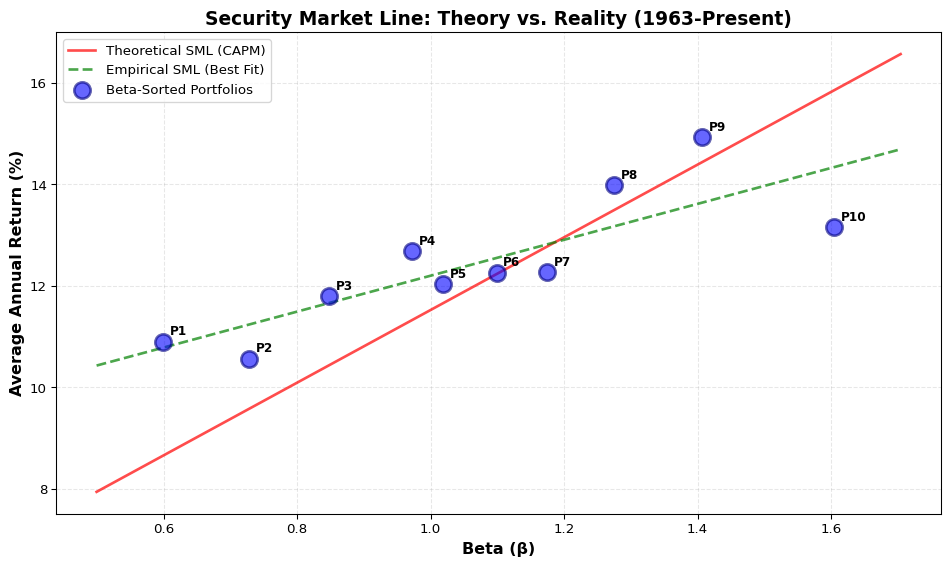
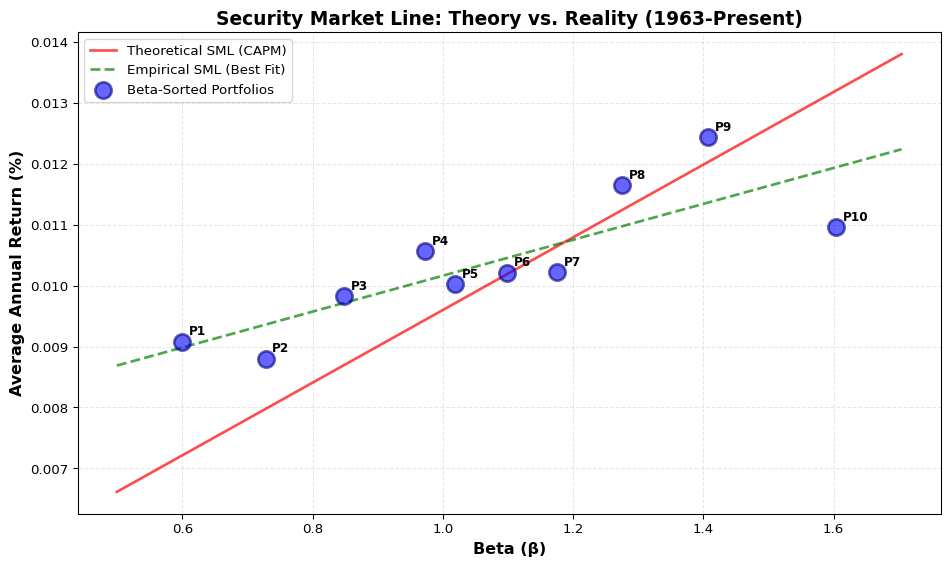
updated slides with corrected return calculations

diff --git a/lecture_slides/_output/lecture01/cross-section.html b/lecture_slides/_output/lecture01/cross-section.html
@@ -477,7 +477,7 @@ E[r_i] = r_f + \beta_i E[r_m - r_f],
 </section>
 <section id="capm-test-french-beta-portfolios" class="slide level2">
 <h2>CAPM Test: French Beta Portfolios</h2>
-<div id="f41a28d1" class="cell" data-execution_count="1">
+<div id="f4414bc9" class="cell" data-execution_count="1">
 <div class="sourceCode cell-code" id="cb1"><pre class="sourceCode numberSource python number-lines code-with-copy"><code class="sourceCode python"><span id="cb1-1"><a href=""></a><span class="im">import</span> pandas <span class="im">as</span> pd</span>
 <span id="cb1-2"><a href=""></a><span class="im">import</span> numpy <span class="im">as</span> np</span>
 <span id="cb1-3"><a href=""></a><span class="im">import</span> matplotlib.pyplot <span class="im">as</span> plt</span>
@@ -487,76 +487,78 @@ E[r_i] = r_f + \beta_i E[r_m - r_f],
 <span id="cb1-7"><a href=""></a>ff_factors <span class="op">=</span> pd.read_excel(<span class="st">"data_sample/ff_portfolios.xlsx"</span>)</span>
 <span id="cb1-8"><a href=""></a>ff_factors[<span class="st">"date"</span>] <span class="op">=</span> pd.to_datetime(ff_factors[<span class="st">"date"</span>], <span class="bu">format</span><span class="op">=</span><span class="st">"%Y%m"</span>)</span>
 <span id="cb1-9"><a href=""></a>ff_factors <span class="op">=</span> ff_factors.set_index(<span class="st">"date"</span>)</span>
-<span id="cb1-10"><a href=""></a></span>
-<span id="cb1-11"><a href=""></a><span class="co"># Load 10 beta-sorted portfolios</span></span>
-<span id="cb1-12"><a href=""></a>beta_portfolios <span class="op">=</span> pd.read_excel(<span class="st">"data_sample/ff_beta_sorted_portfolios.xlsx"</span>)</span>
-<span id="cb1-13"><a href=""></a>beta_portfolios[<span class="st">"date"</span>] <span class="op">=</span> pd.to_datetime(beta_portfolios[<span class="st">"date"</span>], <span class="bu">format</span><span class="op">=</span><span class="st">"%Y%m"</span>)</span>
-<span id="cb1-14"><a href=""></a>beta_portfolios <span class="op">=</span> beta_portfolios.set_index(<span class="st">"date"</span>)</span>
-<span id="cb1-15"><a href=""></a></span>
-<span id="cb1-16"><a href=""></a><span class="co"># Align dates between the two datasets</span></span>
-<span id="cb1-17"><a href=""></a>common_dates <span class="op">=</span> beta_portfolios.index.intersection(ff_factors.index)</span>
-<span id="cb1-18"><a href=""></a>beta_portfolios <span class="op">=</span> beta_portfolios.loc[common_dates]</span>
-<span id="cb1-19"><a href=""></a>ff_factors <span class="op">=</span> ff_factors.loc[common_dates]</span>
-<span id="cb1-20"><a href=""></a></span>
-<span id="cb1-21"><a href=""></a><span class="co"># Get portfolio column names (excluding date if present)</span></span>
-<span id="cb1-22"><a href=""></a>portfolio_cols <span class="op">=</span> [col <span class="cf">for</span> col <span class="kw">in</span> beta_portfolios.columns <span class="cf">if</span> col <span class="kw">not</span> <span class="kw">in</span> [<span class="st">"date"</span>]]</span>
-<span id="cb1-23"><a href=""></a></span>
-<span id="cb1-24"><a href=""></a><span class="co"># Calculate betas for each portfolio using OLS regression</span></span>
-<span id="cb1-25"><a href=""></a>betas <span class="op">=</span> []</span>
-<span id="cb1-26"><a href=""></a><span class="cf">for</span> col <span class="kw">in</span> portfolio_cols:</span>
-<span id="cb1-27"><a href=""></a>    <span class="co"># Portfolio excess returns</span></span>
-<span id="cb1-28"><a href=""></a>    portfolio_excess <span class="op">=</span> beta_portfolios[col] <span class="op">-</span> ff_factors[<span class="st">"RF"</span>]</span>
-<span id="cb1-29"><a href=""></a>    market_excess <span class="op">=</span> ff_factors[<span class="st">"MKT_RF"</span>]</span>
-<span id="cb1-30"><a href=""></a></span>
-<span id="cb1-31"><a href=""></a>    <span class="co"># Run OLS regression: portfolio_excess = alpha + beta * market_excess</span></span>
-<span id="cb1-32"><a href=""></a>    X <span class="op">=</span> sm.add_constant(market_excess)</span>
-<span id="cb1-33"><a href=""></a>    model <span class="op">=</span> sm.OLS(portfolio_excess, X)</span>
-<span id="cb1-34"><a href=""></a>    results <span class="op">=</span> model.fit()</span>
-<span id="cb1-35"><a href=""></a>    beta <span class="op">=</span> results.params[<span class="dv">1</span>]  <span class="co"># Beta is the slope coefficient</span></span>
-<span id="cb1-36"><a href=""></a>    betas.append(beta)</span>
-<span id="cb1-37"><a href=""></a></span>
-<span id="cb1-38"><a href=""></a><span class="co"># Calculate average returns for each portfolio (annualized)</span></span>
-<span id="cb1-39"><a href=""></a>avg_returns <span class="op">=</span> beta_portfolios[portfolio_cols].mean() <span class="op">*</span> <span class="dv">12</span></span>
-<span id="cb1-40"><a href=""></a></span>
-<span id="cb1-41"><a href=""></a><span class="co"># Get risk-free rate and market return (annualized)</span></span>
-<span id="cb1-42"><a href=""></a>rf_rate <span class="op">=</span> ff_factors[<span class="st">"RF"</span>].mean() <span class="op">*</span> <span class="dv">12</span></span>
-<span id="cb1-43"><a href=""></a>market_return <span class="op">=</span> (ff_factors[<span class="st">"MKT_RF"</span>].mean() <span class="op">+</span> ff_factors[<span class="st">"RF"</span>].mean()) <span class="op">*</span> <span class="dv">12</span></span>
-<span id="cb1-44"><a href=""></a></span>
-<span id="cb1-45"><a href=""></a><span class="co"># Create results DataFrame</span></span>
-<span id="cb1-46"><a href=""></a>results_df <span class="op">=</span> pd.DataFrame(</span>
-<span id="cb1-47"><a href=""></a>    {</span>
-<span id="cb1-48"><a href=""></a>        <span class="st">"Portfolio"</span>: [<span class="ss">f"Beta </span><span class="sc">{</span>i <span class="op">+</span> <span class="dv">1</span><span class="sc">}</span><span class="ss">"</span> <span class="cf">for</span> i <span class="kw">in</span> <span class="bu">range</span>(<span class="bu">len</span>(portfolio_cols))],</span>
-<span id="cb1-49"><a href=""></a>        <span class="st">"Beta"</span>: betas,</span>
-<span id="cb1-50"><a href=""></a>        <span class="st">"Avg Return (%)"</span>: avg_returns.values,</span>
-<span id="cb1-51"><a href=""></a>    }</span>
-<span id="cb1-52"><a href=""></a>)</span>
-<span id="cb1-53"><a href=""></a></span>
-<span id="cb1-54"><a href=""></a><span class="bu">print</span>(<span class="st">"Beta-Sorted Portfolios (Kenneth French Data):"</span>)</span>
-<span id="cb1-55"><a href=""></a><span class="bu">print</span>(results_df.<span class="bu">round</span>(<span class="dv">3</span>))</span>
-<span id="cb1-56"><a href=""></a><span class="bu">print</span>(<span class="ss">f"</span><span class="ch">\n</span><span class="ss">Risk-free rate: </span><span class="sc">{</span>rf_rate<span class="sc">:.2f}</span><span class="ss">%"</span>)</span>
-<span id="cb1-57"><a href=""></a><span class="bu">print</span>(<span class="ss">f"Market return: </span><span class="sc">{</span>market_return<span class="sc">:.2f}</span><span class="ss">%"</span>)</span>
-<span id="cb1-58"><a href=""></a><span class="bu">print</span>(<span class="ss">f"Market risk premium: </span><span class="sc">{</span>(market_return <span class="op">-</span> rf_rate)<span class="sc">:.2f}</span><span class="ss">%"</span>)</span></code><button title="Copy to Clipboard" class="code-copy-button"><i class="bi"></i></button></pre></div>
+<span id="cb1-10"><a href=""></a>ff_factors <span class="op">=</span> ff_factors<span class="op">/</span><span class="dv">100</span></span>
+<span id="cb1-11"><a href=""></a></span>
+<span id="cb1-12"><a href=""></a><span class="co"># Load 10 beta-sorted portfolios</span></span>
+<span id="cb1-13"><a href=""></a>beta_portfolios <span class="op">=</span> pd.read_excel(<span class="st">"data_sample/ff_beta_sorted_portfolios.xlsx"</span>)</span>
+<span id="cb1-14"><a href=""></a>beta_portfolios[<span class="st">"date"</span>] <span class="op">=</span> pd.to_datetime(beta_portfolios[<span class="st">"date"</span>], <span class="bu">format</span><span class="op">=</span><span class="st">"%Y%m"</span>)</span>
+<span id="cb1-15"><a href=""></a>beta_portfolios <span class="op">=</span> beta_portfolios.set_index(<span class="st">"date"</span>)</span>
+<span id="cb1-16"><a href=""></a>beta_portfolios <span class="op">=</span> beta_portfolios<span class="op">/</span><span class="dv">100</span>  <span class="co"># Convert to decimal returns</span></span>
+<span id="cb1-17"><a href=""></a></span>
+<span id="cb1-18"><a href=""></a><span class="co"># Align dates between the two datasets</span></span>
+<span id="cb1-19"><a href=""></a>common_dates <span class="op">=</span> beta_portfolios.index.intersection(ff_factors.index)</span>
+<span id="cb1-20"><a href=""></a>beta_portfolios <span class="op">=</span> beta_portfolios.loc[common_dates]</span>
+<span id="cb1-21"><a href=""></a>ff_factors <span class="op">=</span> ff_factors.loc[common_dates]</span>
+<span id="cb1-22"><a href=""></a></span>
+<span id="cb1-23"><a href=""></a><span class="co"># Get portfolio column names (excluding date if present)</span></span>
+<span id="cb1-24"><a href=""></a>portfolio_cols <span class="op">=</span> [col <span class="cf">for</span> col <span class="kw">in</span> beta_portfolios.columns <span class="cf">if</span> col <span class="kw">not</span> <span class="kw">in</span> [<span class="st">"date"</span>]]</span>
+<span id="cb1-25"><a href=""></a></span>
+<span id="cb1-26"><a href=""></a><span class="co"># Calculate betas for each portfolio using OLS regression</span></span>
+<span id="cb1-27"><a href=""></a>betas <span class="op">=</span> []</span>
+<span id="cb1-28"><a href=""></a><span class="cf">for</span> col <span class="kw">in</span> portfolio_cols:</span>
+<span id="cb1-29"><a href=""></a>    <span class="co"># Portfolio excess returns</span></span>
+<span id="cb1-30"><a href=""></a>    portfolio_excess <span class="op">=</span> beta_portfolios[col] <span class="op">-</span> ff_factors[<span class="st">"RF"</span>]</span>
+<span id="cb1-31"><a href=""></a>    market_excess <span class="op">=</span> ff_factors[<span class="st">"MKT_RF"</span>]</span>
+<span id="cb1-32"><a href=""></a></span>
+<span id="cb1-33"><a href=""></a>    <span class="co"># Run OLS regression: portfolio_excess = alpha + beta * market_excess</span></span>
+<span id="cb1-34"><a href=""></a>    X <span class="op">=</span> sm.add_constant(market_excess)</span>
+<span id="cb1-35"><a href=""></a>    model <span class="op">=</span> sm.OLS(portfolio_excess, X)</span>
+<span id="cb1-36"><a href=""></a>    results <span class="op">=</span> model.fit()</span>
+<span id="cb1-37"><a href=""></a>    beta <span class="op">=</span> results.params[<span class="dv">1</span>]  <span class="co"># Beta is the slope coefficient</span></span>
+<span id="cb1-38"><a href=""></a>    betas.append(beta)</span>
+<span id="cb1-39"><a href=""></a></span>
+<span id="cb1-40"><a href=""></a><span class="co"># Calculate average returns for each portfolio (annualized)</span></span>
+<span id="cb1-41"><a href=""></a>avg_returns <span class="op">=</span> beta_portfolios[portfolio_cols].mean()</span>
+<span id="cb1-42"><a href=""></a></span>
+<span id="cb1-43"><a href=""></a><span class="co"># Get risk-free rate and market return (annualized)</span></span>
+<span id="cb1-44"><a href=""></a>rf_rate <span class="op">=</span> ff_factors[<span class="st">"RF"</span>].mean() </span>
+<span id="cb1-45"><a href=""></a>market_return <span class="op">=</span> (ff_factors[<span class="st">"MKT_RF"</span>].mean() <span class="op">+</span> ff_factors[<span class="st">"RF"</span>].mean()) </span>
+<span id="cb1-46"><a href=""></a></span>
+<span id="cb1-47"><a href=""></a><span class="co"># Create results DataFrame</span></span>
+<span id="cb1-48"><a href=""></a>results_df <span class="op">=</span> pd.DataFrame(</span>
+<span id="cb1-49"><a href=""></a>    {</span>
+<span id="cb1-50"><a href=""></a>        <span class="st">"Portfolio"</span>: [<span class="ss">f"Beta </span><span class="sc">{</span>i <span class="op">+</span> <span class="dv">1</span><span class="sc">}</span><span class="ss">"</span> <span class="cf">for</span> i <span class="kw">in</span> <span class="bu">range</span>(<span class="bu">len</span>(portfolio_cols))],</span>
+<span id="cb1-51"><a href=""></a>        <span class="st">"Beta"</span>: betas,</span>
+<span id="cb1-52"><a href=""></a>        <span class="st">"Avg Return (%)"</span>: avg_returns.values,</span>
+<span id="cb1-53"><a href=""></a>    }</span>
+<span id="cb1-54"><a href=""></a>)</span>
+<span id="cb1-55"><a href=""></a></span>
+<span id="cb1-56"><a href=""></a><span class="bu">print</span>(<span class="st">"Beta-Sorted Portfolios (Kenneth French Data):"</span>)</span>
+<span id="cb1-57"><a href=""></a><span class="bu">print</span>(results_df.<span class="bu">round</span>(<span class="dv">3</span>))</span>
+<span id="cb1-58"><a href=""></a><span class="bu">print</span>(<span class="ss">f"</span><span class="ch">\n</span><span class="ss">Risk-free rate: </span><span class="sc">{</span>rf_rate<span class="sc">:.2f}</span><span class="ss">%"</span>)</span>
+<span id="cb1-59"><a href=""></a><span class="bu">print</span>(<span class="ss">f"Market return: </span><span class="sc">{</span>market_return<span class="sc">:.2f}</span><span class="ss">%"</span>)</span>
+<span id="cb1-60"><a href=""></a><span class="bu">print</span>(<span class="ss">f"Market risk premium: </span><span class="sc">{</span>(market_return <span class="op">-</span> rf_rate)<span class="sc">:.2f}</span><span class="ss">%"</span>)</span></code><button title="Copy to Clipboard" class="code-copy-button"><i class="bi"></i></button></pre></div>
 </div>
 </section>
 <section id="capm-test-does-it-hold" class="slide level2">
 <h2>CAPM Test: Does It Hold?</h2>
-<div id="7f0ea472" class="cell" data-execution_count="2">
+<div id="28a30c96" class="cell" data-execution_count="2">
 
 <div class="cell-output cell-output-stdout">
 <pre><code>
 CAPM Prediction vs. Actual Returns:
 Portfolio | Beta  | Predicted Return | Actual Return | Alpha
 ----------------------------------------------------------------------
-Beta  1   | 0.599 |   8.65% |  10.90% |  +2.24%
-Beta  2   | 0.728 |   9.57% |  10.56% |  +0.99%
-Beta  3   | 0.848 |  10.43% |  11.79% |  +1.36%
-Beta  4   | 0.972 |  11.32% |  12.68% |  +1.36%
-Beta  5   | 1.019 |  11.65% |  12.03% |  +0.38%
-Beta  6   | 1.099 |  12.23% |  12.26% |  +0.03%
-Beta  7   | 1.175 |  12.77% |  12.26% |  -0.51%
-Beta  8   | 1.275 |  13.49% |  13.98% |  +0.49%
-Beta  9   | 1.407 |  14.44% |  14.93% |  +0.49%
-Beta 10   | 1.604 |  15.85% |  13.15% |  -2.70%</code></pre>
+Beta  1   | 0.599 |   0.01% |   0.01% |  +0.00%
+Beta  2   | 0.728 |   0.01% |   0.01% |  +0.00%
+Beta  3   | 0.848 |   0.01% |   0.01% |  +0.00%
+Beta  4   | 0.972 |   0.01% |   0.01% |  +0.00%
+Beta  5   | 1.019 |   0.01% |   0.01% |  +0.00%
+Beta  6   | 1.099 |   0.01% |   0.01% |  +0.00%
+Beta  7   | 1.175 |   0.01% |   0.01% |  -0.00%
+Beta  8   | 1.275 |   0.01% |   0.01% |  +0.00%
+Beta  9   | 1.407 |   0.01% |   0.01% |  +0.00%
+Beta 10   | 1.604 |   0.01% |   0.01% |  -0.00%</code></pre>
 </div>
 </div>
 <img data-src="cross-section_files/figure-revealjs/cell-3-output-1.png" class="quarto-figure quarto-figure-center r-stretch"></section>
@@ -746,7 +748,7 @@ r_{i,t} - r_{f,t} = \alpha_i + \lambda_{1} \beta_{i,t} + \lambda_{2} size_{i,t} 
 <section id="fama-french-1993-grs-test" class="slide level2">
 <h2>Fama-French 1993 GRS test</h2>
 <ul>
-<li><p>Fama and French use the GRS test statistic to jointly test whether the alphas (αiαi) of all the test portfolios are zero.</p></li>
+<li><p>Fama and French use the GRS test statistic to jointly test whether the alphas (<span class="math inline">\alpha_i</span>) of all the test portfolios are zero.</p></li>
 <li><p>The GRS test is designed to assess whether the factors adequately explain the cross-sectional variation in returns across the test portfolios.</p>
 <ul>
 <li><span class="math inline">\text{GRS} = \frac{T - N - K}{N} \cdot \frac{\alpha' \Sigma^{-1} \alpha}{1 + \bar{f}' \Sigma_f^{-1} \bar{f}}</span></li>
